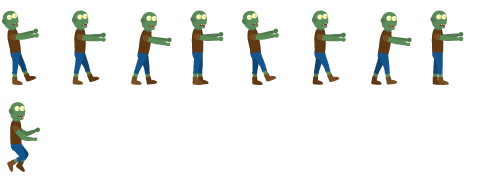
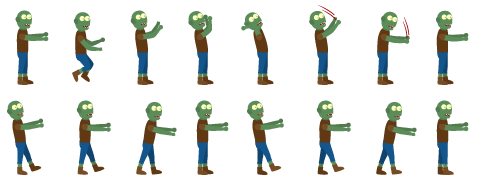
Adds attack animation to the zombies

diff --git a/src/objects/zombie.ts b/src/objects/zombie.ts
@@ -13,7 +13,7 @@ export class Zombie extends GroundSpawnEnemy {
 
   public constructor(game: GameInstance) {
     super(game);
-    this._sprite.anchor.set(0.3, 0.5);
+    this._sprite.anchor.set(0.4, 0.5);
     this._moveSpeed = 2.5;
   }
 
@@ -23,19 +23,27 @@ export class Zombie extends GroundSpawnEnemy {
     return new SpriteSheet(
       'game/zombie',
       8, 2, // width, height
-      'walk', // default anim
+      'idle', // default anim
       { // animations
+        idle: {
+          frames: [0],
+          ticksPerFrame: 0,
+        },
         walk: {
-          frames: [0, 1, 2, 3, 4, 5, 6, 7],
+          frames: [8, 9, 10, 11, 12, 13, 14, 15],
           ticksPerFrame: 8,
         },
         run: {
-          frames: [0, 1, 2, 3, 4, 5, 6, 7],
+          frames: [8, 9, 10, 11, 12, 13, 14, 15],
           ticksPerFrame: 5,
         },
         jump: {
-          frames: [8],
+          frames: [1],
           ticksPerFrame: 0,
+        },
+        attack: {
+          frames: [2, 3, 4, 5, 6, 7],
+          ticksPerFrame: 3,
         },
       }
     );
@@ -43,7 +51,12 @@ export class Zombie extends GroundSpawnEnemy {
 
   protected _updateChasing(): void {
     super._updateChasing();
-    if (this._isOnSolidGround()) {
+    if (this.getPolarBounds().intersects(this._game.player.getPolarBounds())) {
+      // Because temporarily the enemies just do a steady stream of damage when
+      // in contact with the player. The above if condition is a hack and should
+      // be generalized out to the Enemy class to decide when we are attacking.
+      this._sprite.playAnim('attack');
+    } else if (this._isOnSolidGround()) {
       this._sprite.playAnim('run');
     } else {
       this._sprite.playAnim('jump');
